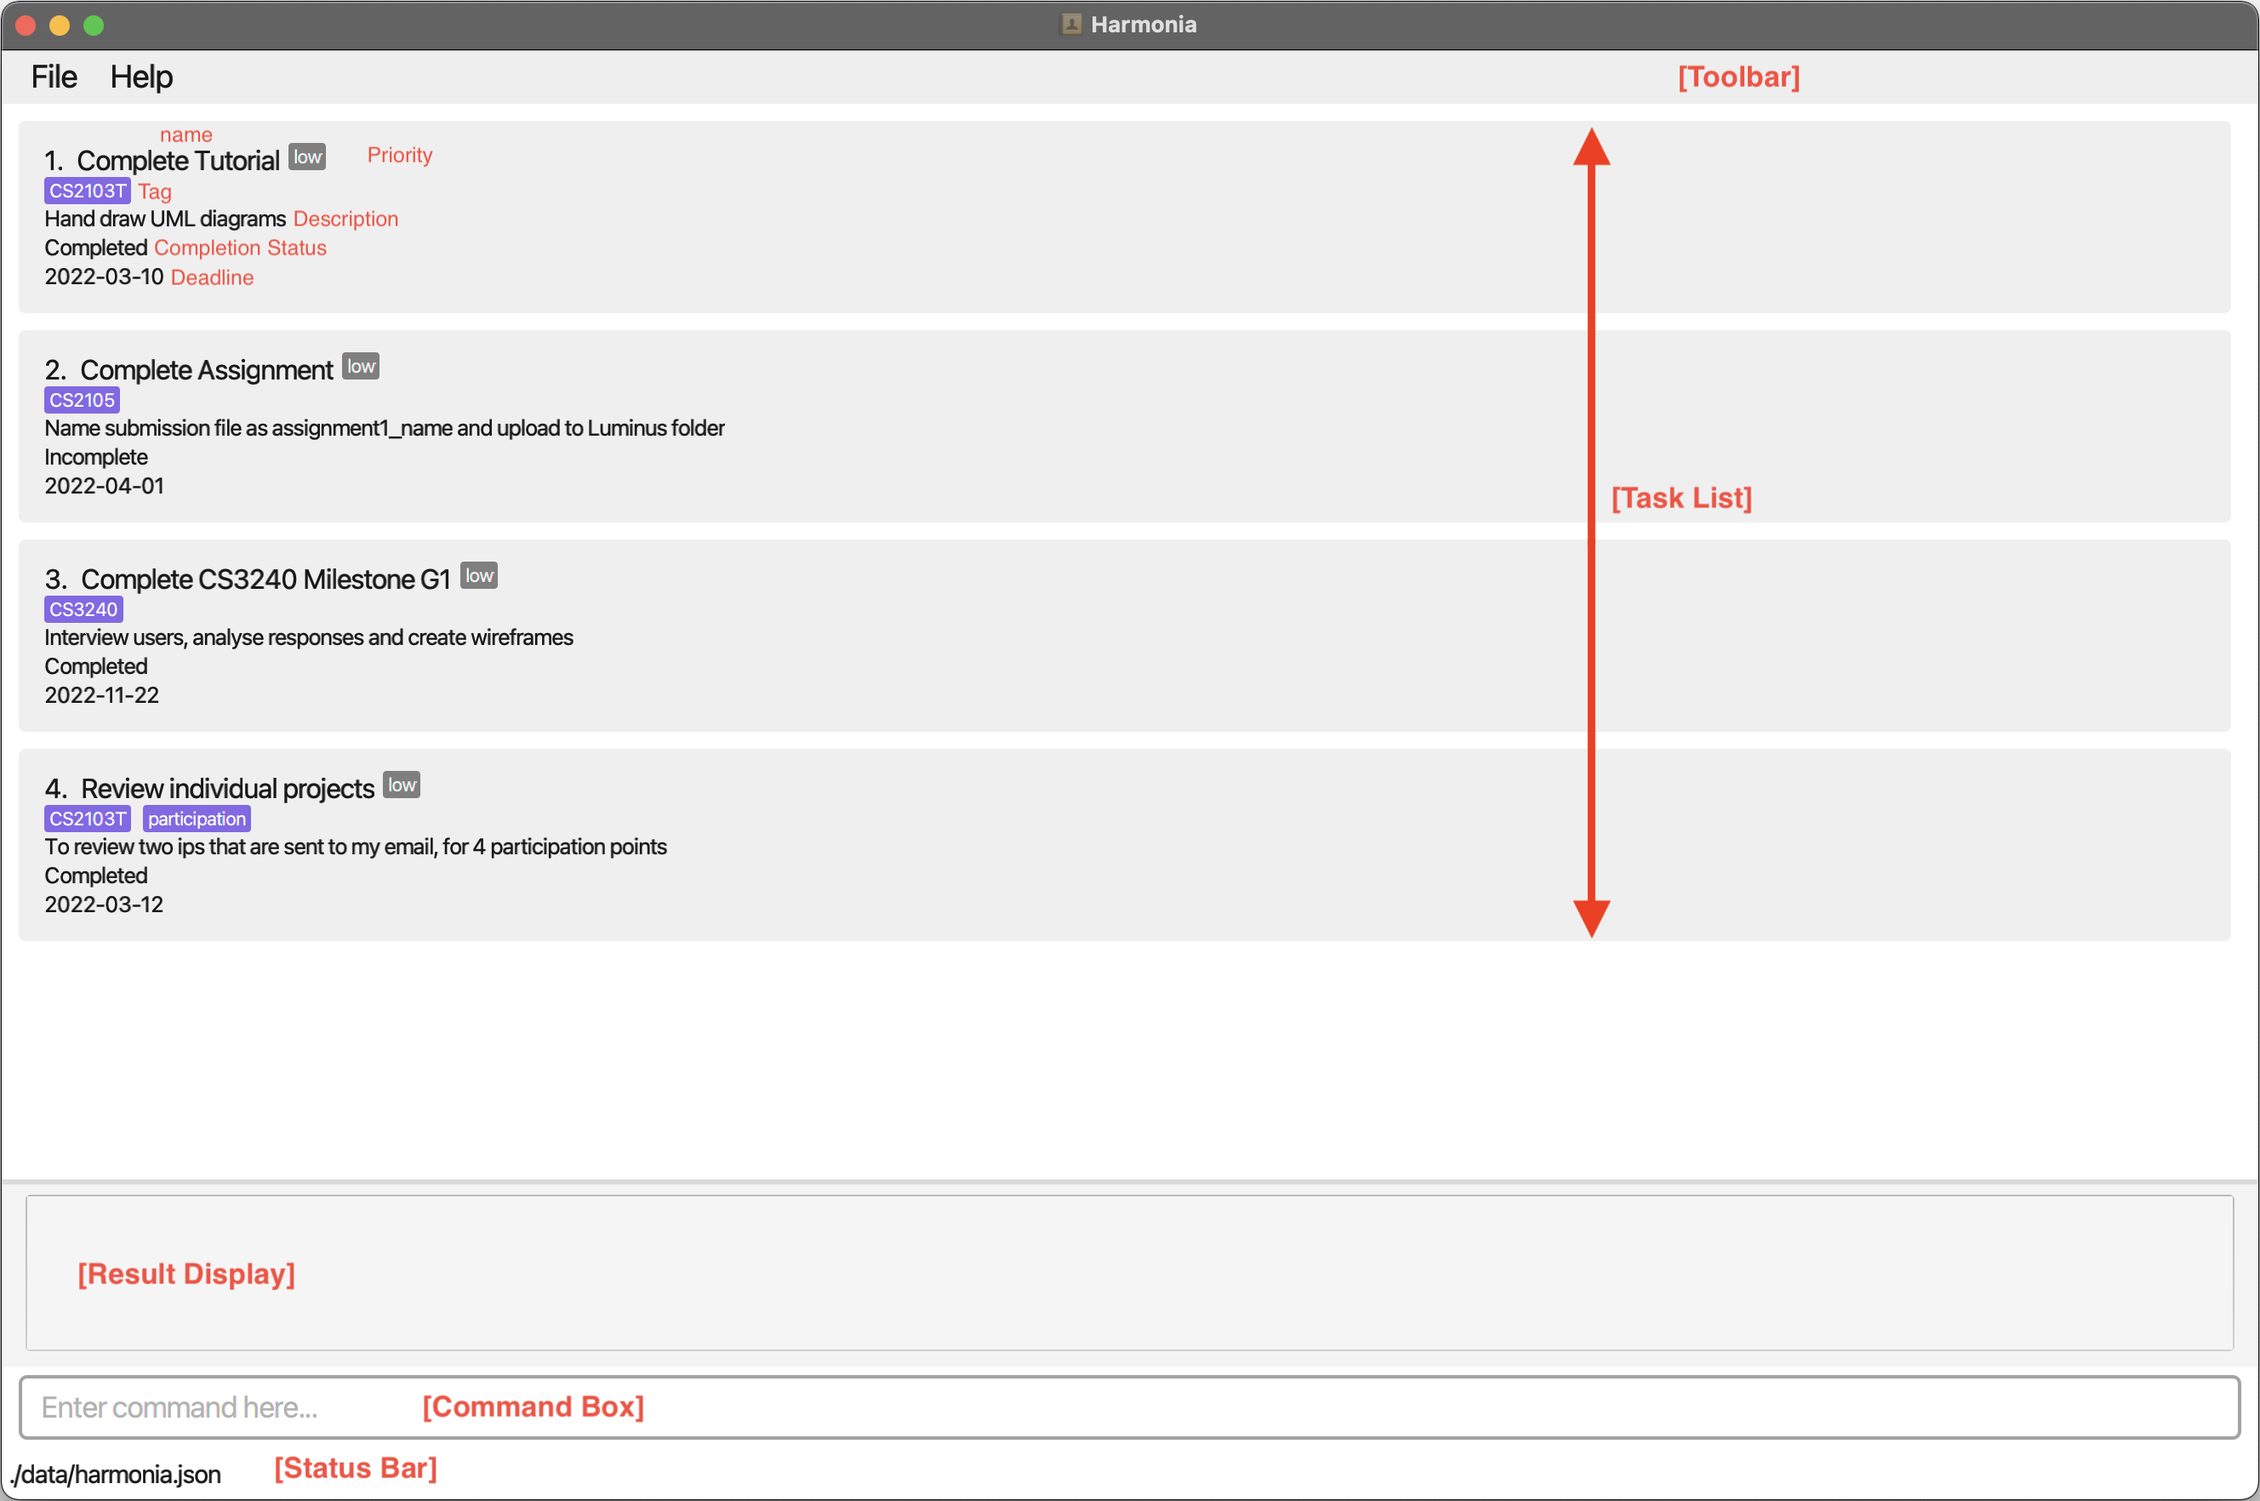
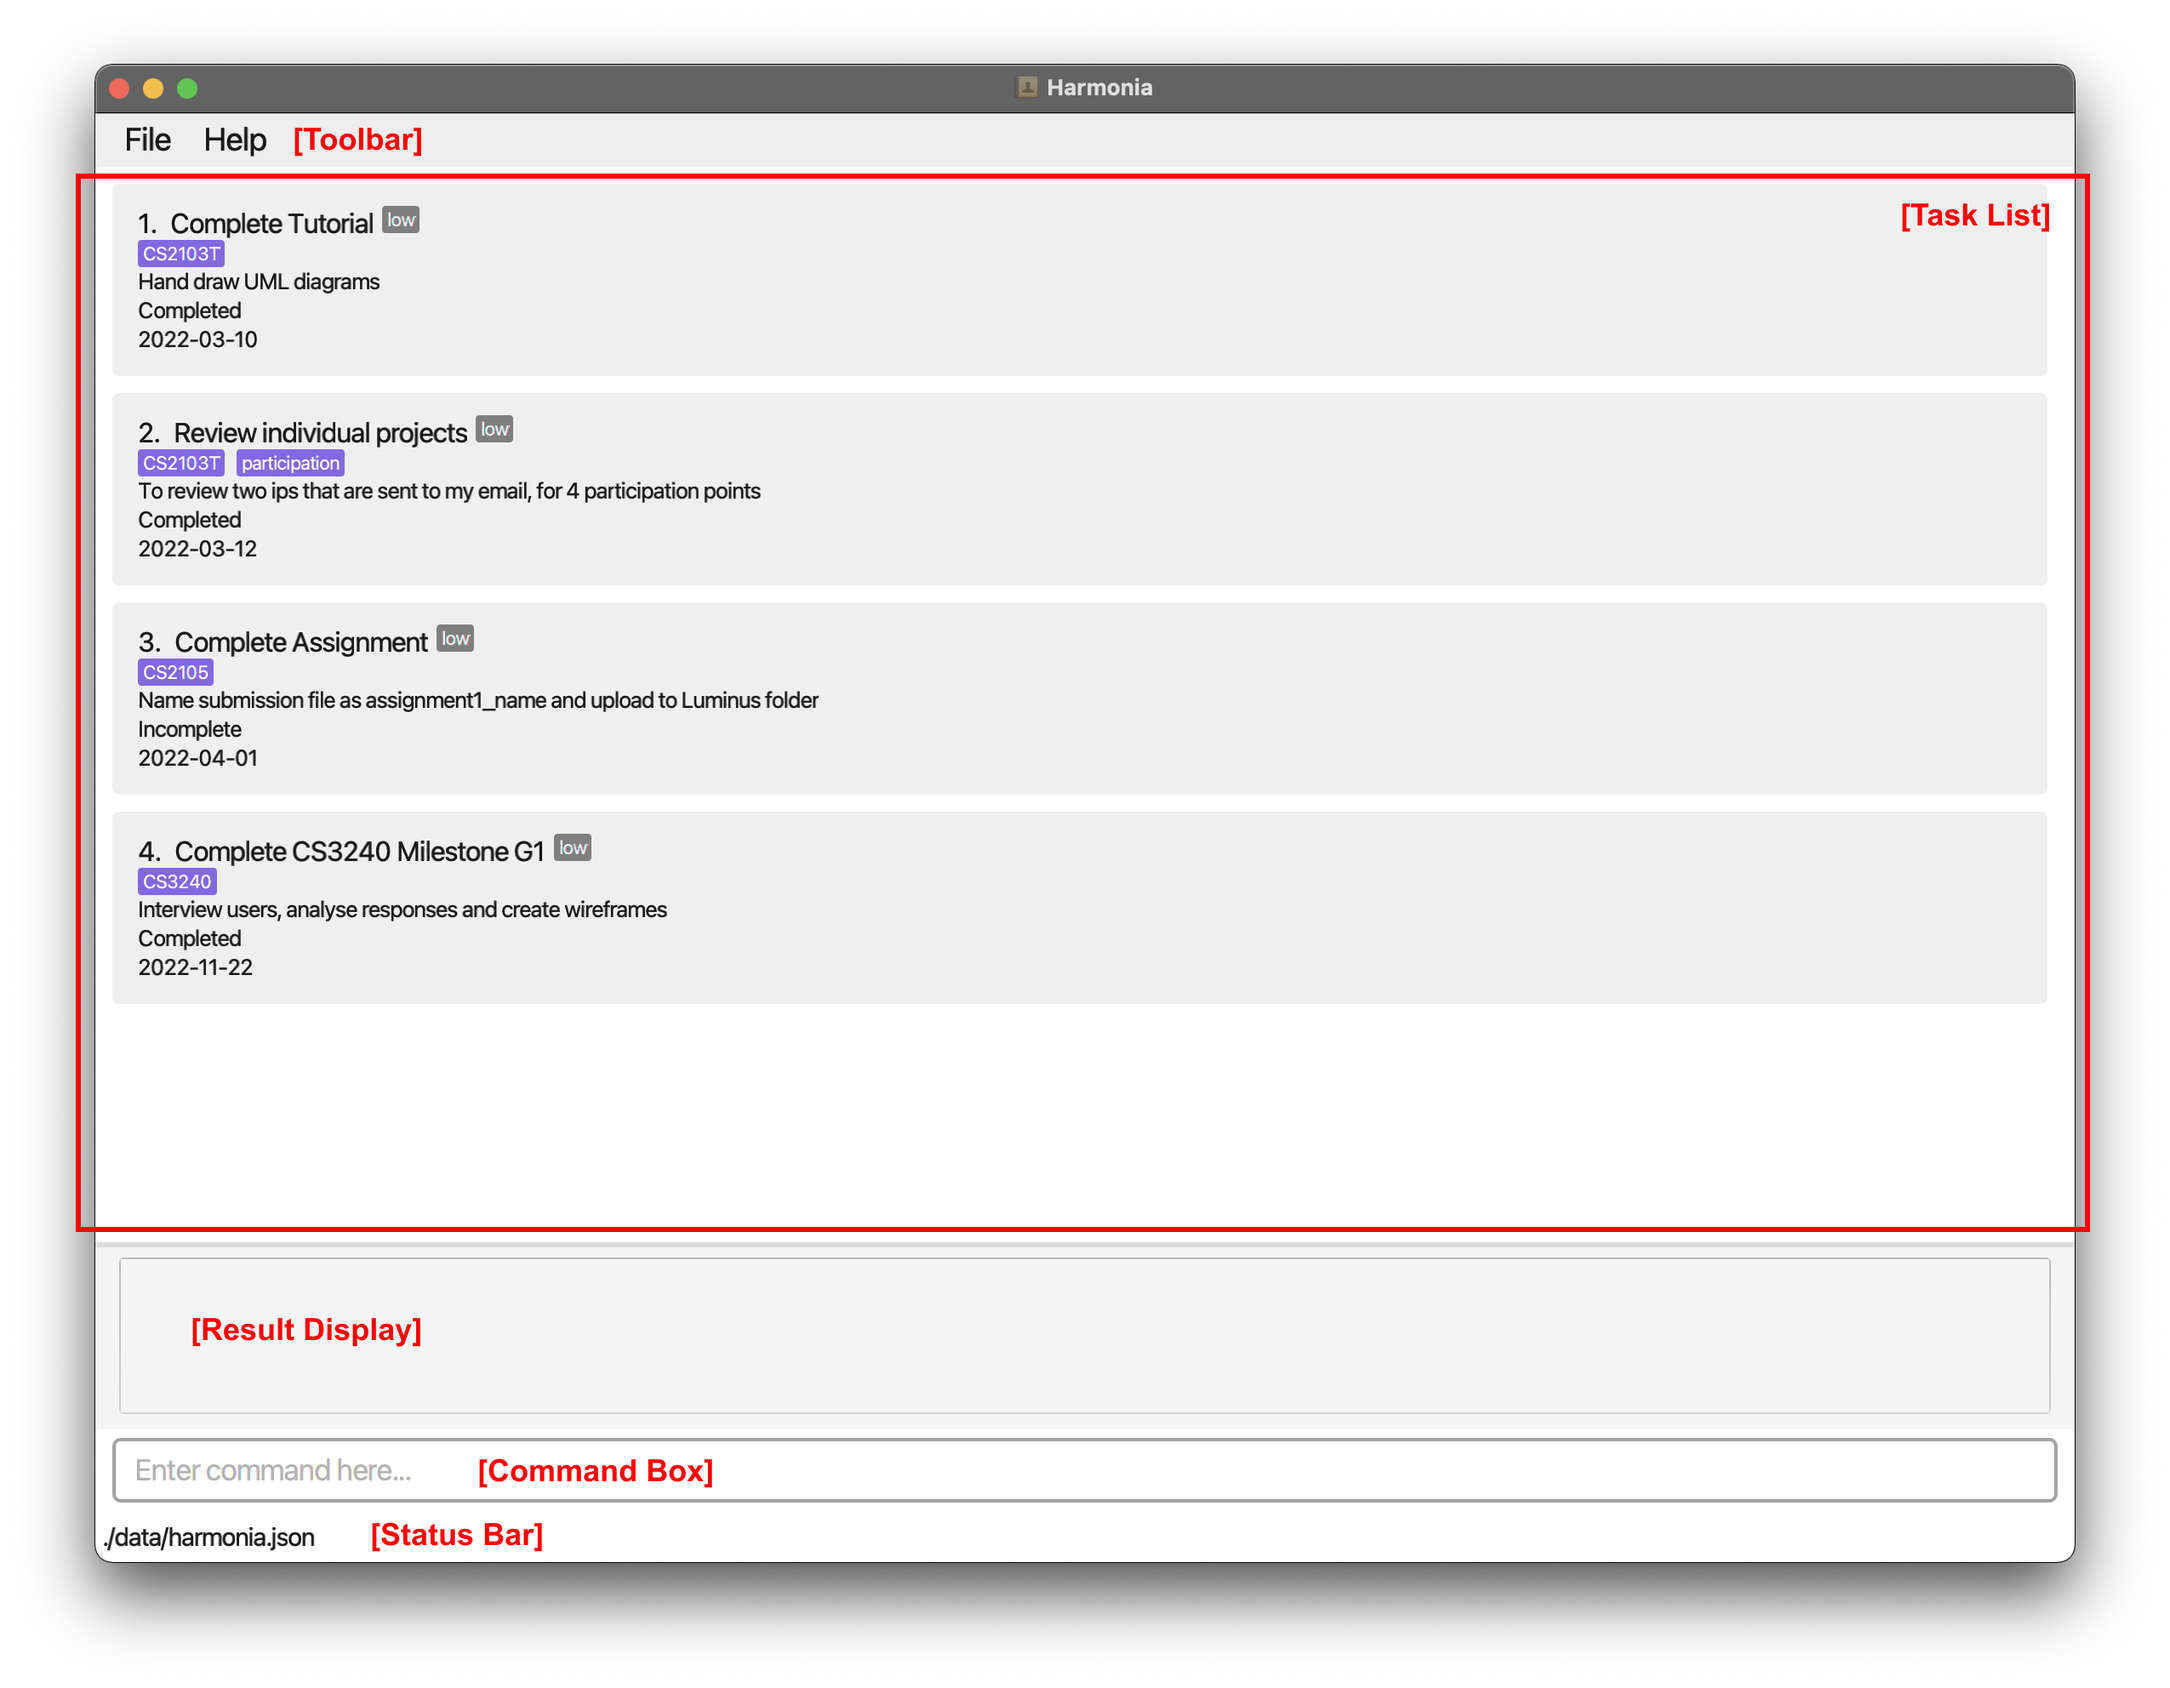
Improve explanation in the annotated UI

Changed region(s): [[0.0, 0.0, 1.0, 1.0]]

diff --git a/docs/UserGuide.md b/docs/UserGuide.md
@@ -85,6 +85,9 @@ Component | Purpose
   ![Harmonia UI](images/AnnotatedUi.png)
   *Figure 1.5: Harmonia's GUI*
 
+  ![Harmonia UI](images/TaskCard.png)
+  *Figure 1.6: Task Card*
+
 [Return to Top](#table-of-contents-toc)
 
 ## 2. Getting Started
